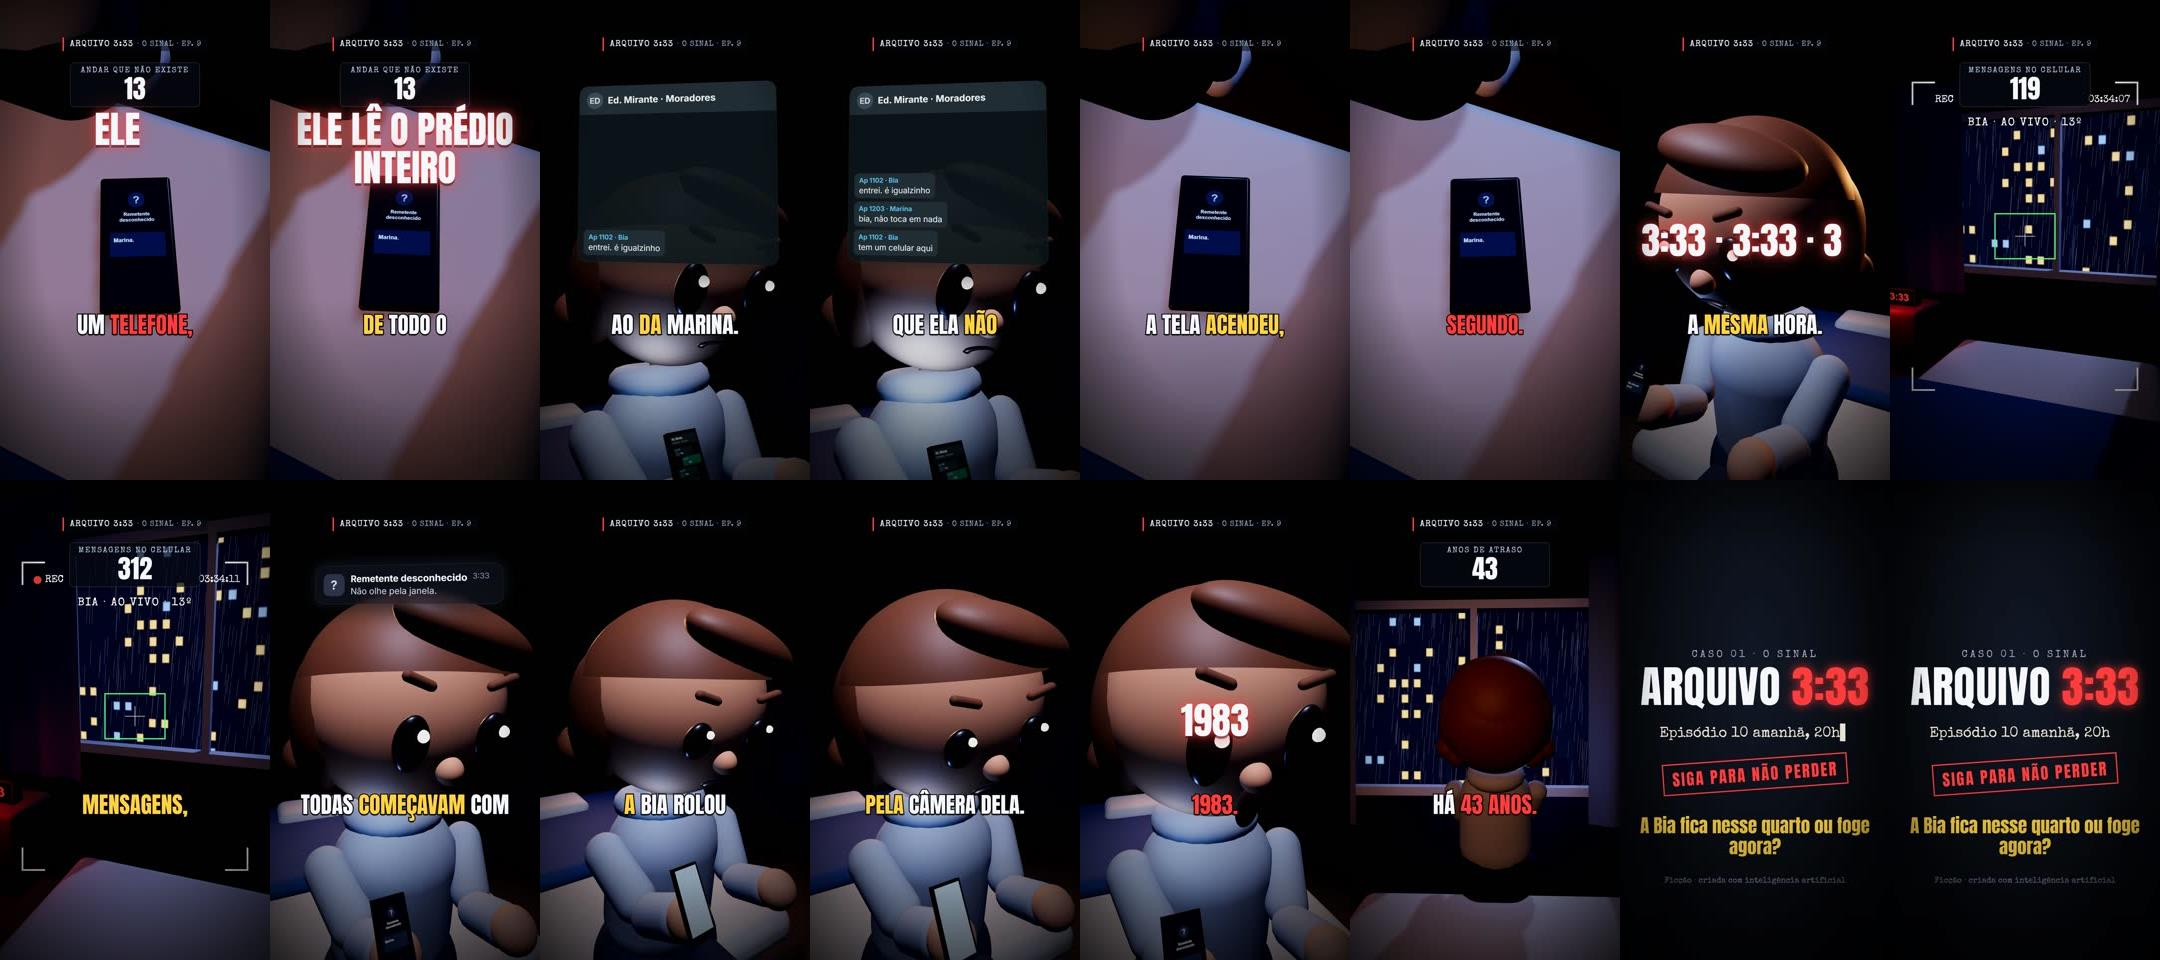
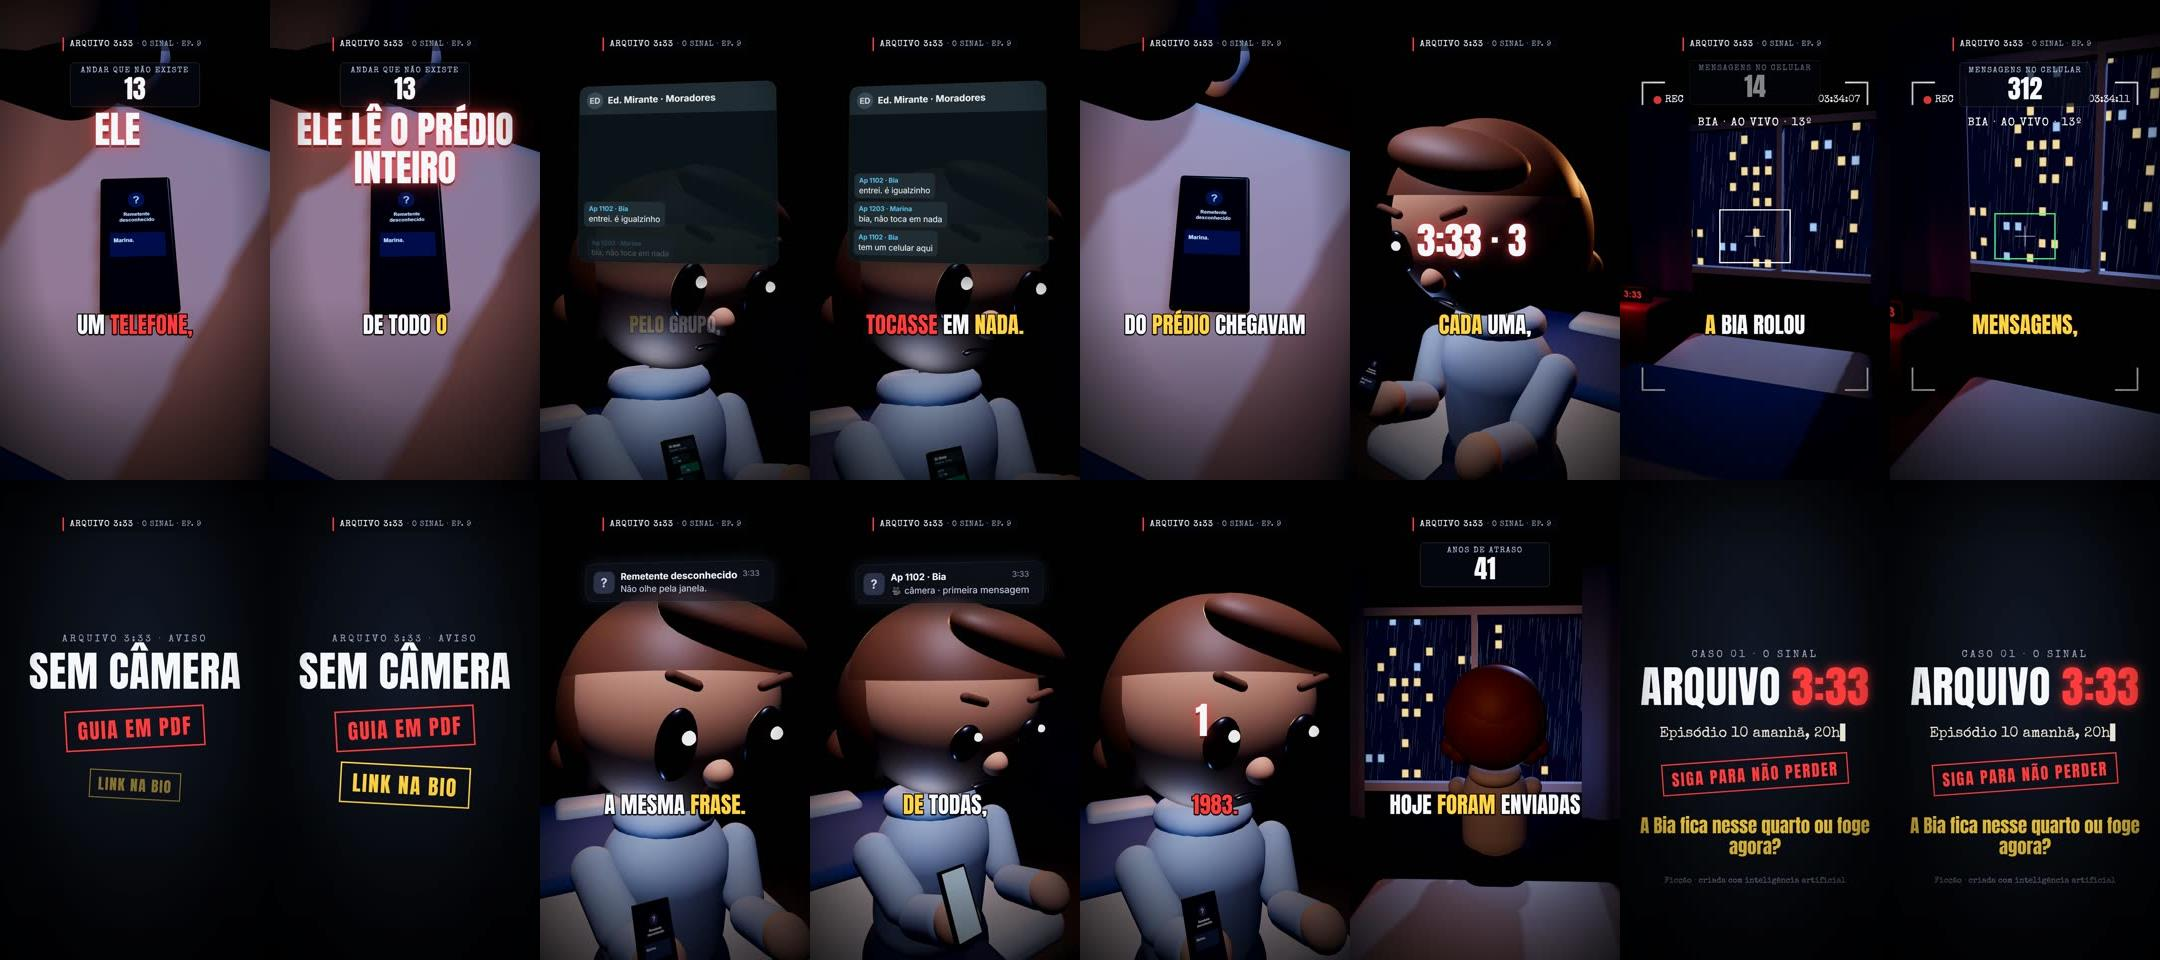
Arquivo 3:33: divulgacao do guia Sem Camera nos eps. 9 e 10, regra na skill, envio com curl, notas

diff --git a/.claude/skills/arquivo-333/SKILL.md b/.claude/skills/arquivo-333/SKILL.md
@@ -19,6 +19,14 @@ O Vito (dono) deu **liberdade total**: não peça aprovação de roteiro, cena n
   - **Episódio já gravado:** gere só a pergunta (barato, uns 0,3 de crédito por frase) e use `vozAntes` na cena `final`: `{ arquivo, url, textos, indice, pausa }`. O `preparar-caso` encaixa a pergunta antes da fala da cena, sem regerar a narração aprovada (foi assim nos eps. 8 a 10).
   - **Duração do cartão:** com a pergunta falada, o cartão final dura uns 5 a 6 s (antes, uns 3 s). Mantenha `segura` de no máximo 0,45 s e o episódio abaixo de 58 s.
 
+**Divulgação do guia "Sem Câmera" no meio do vídeo (pedido do Vito, 02/11/2026, por tempo limitado; ele diz quando acabar):** o Vito vende um guia em PDF e quer 3 a 6 s de divulgação no meio dos episódios.
+- **Como é:** cena `avulsa` entre os cortes, a 40%-60% do vídeo, nunca em cima de uma revelação. O narrador (Gideon, gravado à parte, arquivo `narracao/divulgacao-guia.mp3`) diz: "Este vídeo foi feito só com inteligência artificial, sem câmera. Quer aprender? O guia está no link da bio." Na tela, `visual: { tipo: "divulgacao", titulo: "SEM CÂMERA", linhas: ["GUIA EM PDF", "LINK NA BIO"] }`. Sem promessa de dinheiro.
+- **No JSON:** a cena leva `"avulsa": { "arquivo", "url" }`, `"semLegenda": true`, `"entrada": "preto"`, `"sons": []`, e a `fala` é o texto da frase. O `preparar-caso` tira essa cena do corte da narração principal e mixa a voz dela à parte. O `nuvem.mjs` baixa o arquivo pela `url` se faltar.
+- **Legendas:** a legenda do Instagram/TikTok e a descrição do YouTube ganham "Guia para fazer vídeos assim: link na bio." antes de "Ficção criada com inteligência artificial.".
+- **Custo e tempo:** a frase gravada custa 0,69 crédito (serve para todos os episódios). A cena dura uns 7 s, então o episódio passa de 58 s (ep. 8: 63 s). Vale enquanto o Vito pedir.
+- **Conferir:** olhe a folha de revisão (o título não pode encostar nas bordas: 168 px) e, no Pages, o tamanho do mp4 contra o local.
+- **Se o envio do render falhar no PC:** o `fetch` do Node às vezes não conecta em `uploads.github.com`. O `nuvem.mjs` agora tenta o `curl`; se ainda assim falhar, rode `SO_ENVIO=1 TODOS=1 FORCAR=epNN node ferramentas/nuvem.mjs` (só refaz o envio e o registro, sem renderizar de novo). Cuidado: o envio apaga o arquivo antigo do release antes de subir o novo; confira que `o-sinal-epNN-upload.mp4` está lá no fim.
+
 ## Onde fica cada coisa
 O código está no repositório `vito0067/origem-digital-posts`, pasta `arquivo-333/` (no PC: `Documents\Origem Digital\4-midia\posts-automaticos\arquivo-333`).
 - `episodios/epNN.json`: o episódio, com falas, cenas, sons e o bloco `publicar`. É a fonte de tudo.

diff --git a/arquivo-333/publicacao/ep08.md b/arquivo-333/publicacao/ep08.md
@@ -4,7 +4,7 @@ Vídeo: release `arquivo-o-sinal-ep08` (cópia leve `o-sinal-ep08-upload.mp4`) e
 
 ## Agendamento (02/11/2026, às 20:00)
 - TikTok: agendado 02/11 20h00 (com capa e rótulo de IA)
-- YouTube: agendado 02/11 20h00, versão com a aposta no cartão final (https://youtube.com/shorts/R4rYHbNvxrU, playlist O Sinal). A versão antiga (RHPTgqSJRN4) ficou privada.
+- YouTube: agendado 02/11 20h00, versão com a divulgação do guia e a pergunta falada (https://youtube.com/shorts/llC-ZNr2Gbg, playlist O Sinal). As versões anteriores (5DI7fMEPhHE, RHPTgqSJRN4, R4rYHbNvxrU) ficaram privadas.
 - Instagram: pendente (n8n com a chave, ou a tarefa das 19h50)
 
 ## Legenda (Instagram e TikTok): a versão válida é a do `episodios/ep08.json`
@@ -12,6 +12,8 @@ O prédio tem 12 andares. A Bia filmou o 13º. 📼
 
 O Sinal, episódio 8 (o 1 está no perfil).
 Episódio 9 amanhã, às 20h. Siga para não perder.
+
+Guia para fazer vídeos assim: link na bio.
 
 Ficção criada com inteligência artificial.
 #suspense #terror #misterio #serie #animacao3d #historiasdeterror
@@ -22,9 +24,13 @@ Título: O prédio tem 12 andares. Ela filmou o 13º | O Sinal, Ep. 8 #shorts
 A Bia sobe pela escada atrás do andar que só existe na planta da síndica. Ela encontra um corredor sem números, o elevador marcando 13 e, atrás de uma porta que abre sozinha, um quarto igual ao da Marina.
 
 O Sinal é uma série de suspense do Arquivo 3:33. Episódio novo todo dia às 20h.
+Guia para fazer vídeos assim: link na bio.
 Ficção criada com inteligência artificial.
 
 #suspense #terror #misterio #animacao3d #shorts
+
+## Divulgação do guia Sem Câmera (02/11/2026)
+Cartão falado aos ~27-31 s (cena `avulsa`, voz do Gideon): "Este vídeo foi feito só com inteligência artificial, sem câmera. Quer aprender? O guia está no link da bio." A legenda e a descrição do YouTube trazem "Guia para fazer vídeos assim: link na bio." O link do guia ainda será passado pelo Vito.
 
 ## Pergunta para fixar
 A Bia entra nesse quarto ou volta pela escada? 👇

diff --git a/arquivo-333/ESTADO.md b/arquivo-333/ESTADO.md
@@ -27,6 +27,7 @@ Atualizado em 02/11/2026, às 09h. Leia antes de mexer e atualize a cada rodada.
 
 ## Regras novas
 - **TikTok (Vito, 01/11/2026):** nunca publique nem agende pelo computador. Para cada episódio, rode `node ferramentas/kit-celular.mjs N` e diga onde está a pasta. No TikTok, só leia os números.
+- **Divulgação do guia "Sem Câmera" (02/11/2026):** os eps. 8 a 10 ganharam um cartão falado de ~7 s no meio (cena `avulsa`, voz do Gideon, título SEM CÂMERA / GUIA EM PDF / LINK NA BIO) e a frase "Guia para fazer vídeos assim: link na bio." nas legendas. Os vídeos passaram de 61 s. Regra na skill. No YouTube, a versão nova entra programada e a antiga fica privada.
 - **Aposta:** todo episódio tem uma pergunta ligada à cena. Do ep. 8 em diante, ela está na legenda, no comentário fixado e no cartão final (extra `aposta`). Em 02/11, os eps. 8 a 10 foram renderizados de novo com a aposta; no YouTube, a versão nova entra programada e a antiga fica privada, sem excluir. Só opinião: não muda a história.
 
 ## Riscos

diff --git a/arquivo-333/publicacao/ep09.md b/arquivo-333/publicacao/ep09.md
@@ -7,5 +7,8 @@ Vídeo: release `arquivo-o-sinal-ep09` (cópia leve `o-sinal-ep09-upload.mp4`). 
 - YouTube: agendado 03/11 20h00, voz refeita sem "celular" na fala (https://youtube.com/shorts/zWPYy8-5p_I, playlist O Sinal). As versões antigas (dHVJPLiZ_ow e WOwe4sgzzl8) ficaram privadas.
 - Instagram: pendente (tarefa das 19h50)
 
+## Divulgação do guia Sem Câmera (02/11/2026)
+Cartão falado aos ~27-31 s (cena `avulsa`, voz do Gideon): "Este vídeo foi feito só com inteligência artificial, sem câmera. Quer aprender? O guia está no link da bio." A legenda e a descrição do YouTube trazem "Guia para fazer vídeos assim: link na bio." O link do guia ainda será passado pelo Vito.
+
 ## Pergunta para fixar
 A Bia fica nesse quarto até descobrir mais, ou foge agora? 👇

diff --git a/arquivo-333/publicacao/ep10.md b/arquivo-333/publicacao/ep10.md
@@ -7,5 +7,8 @@ Vídeo: release `arquivo-o-sinal-ep10` (cópia leve `o-sinal-ep10-upload.mp4`). 
 - YouTube: agendado 04/11 20h00, versão com a aposta no cartão final (https://youtube.com/shorts/AXzqVed_Tiw, playlist O Sinal). A versão antiga (C_fuV8Vz9D8) ficou privada.
 - Instagram: pendente (tarefa das 19h50)
 
+## Divulgação do guia Sem Câmera (02/11/2026)
+Cartão falado aos ~27-31 s (cena `avulsa`, voz do Gideon): "Este vídeo foi feito só com inteligência artificial, sem câmera. Quer aprender? O guia está no link da bio." A legenda e a descrição do YouTube trazem "Guia para fazer vídeos assim: link na bio." O link do guia ainda será passado pelo Vito.
+
 ## Pergunta para fixar
 A Marina vai olhar pela janela ou não? 👇
